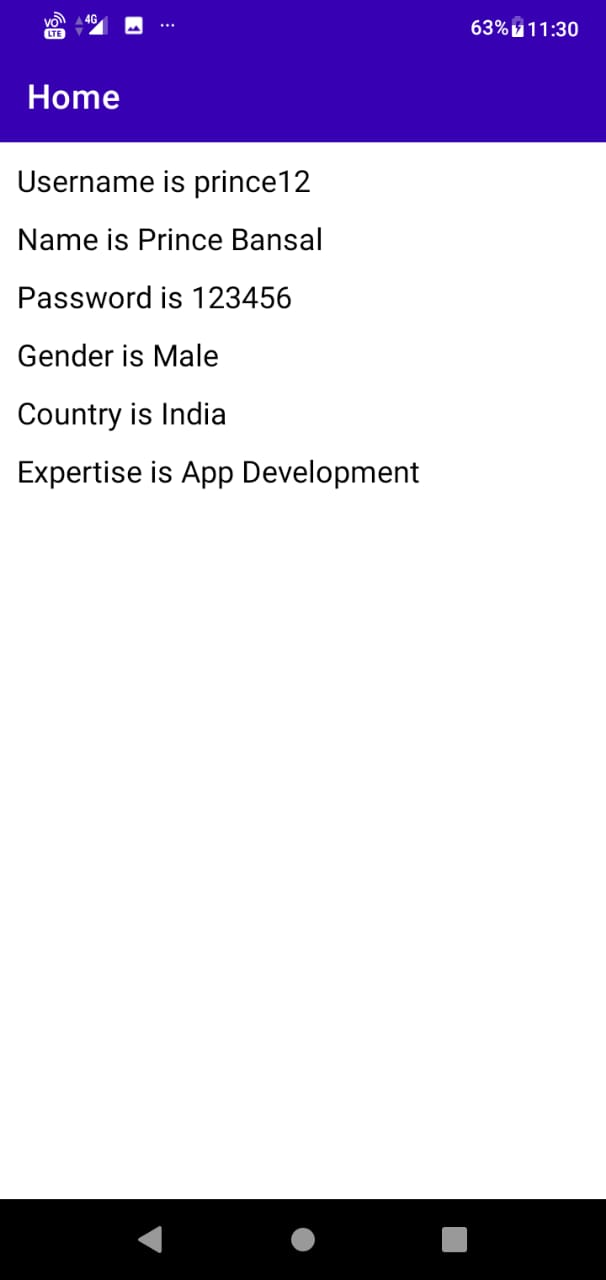
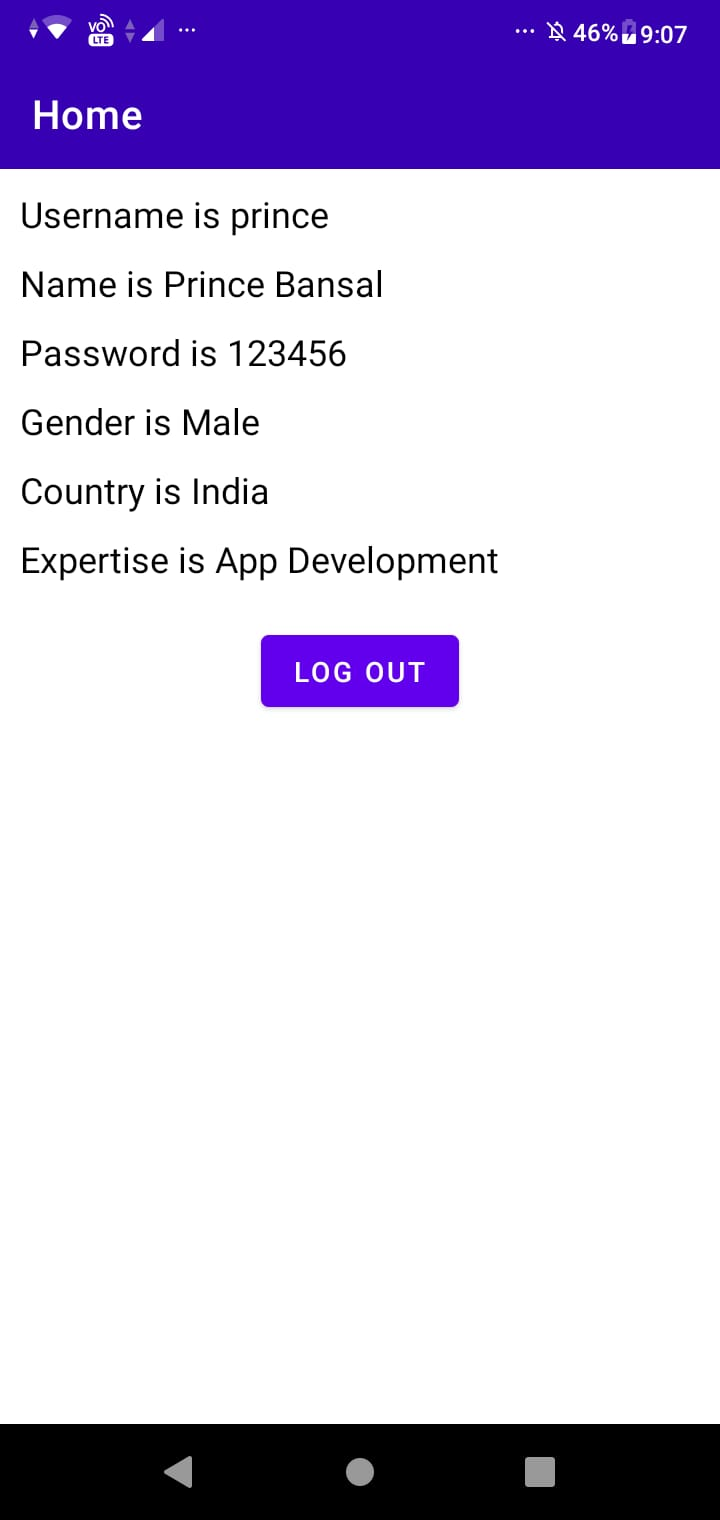
Initital Commit

diff --git a/app/src/main/java/com/example/androiddemo/MainActivity.kt b/app/src/main/java/com/example/androiddemo/MainActivity.kt
@@ -1,27 +1,40 @@
 package com.example.androiddemo
 
 import android.content.Context
+import android.content.Intent
 import androidx.appcompat.app.AppCompatActivity
 import android.os.Bundle
+import android.view.View
+import android.widget.Button
 import android.widget.TextView
 
 class MainActivity : AppCompatActivity() {
     override fun onCreate(savedInstanceState: Bundle?) {
         super.onCreate(savedInstanceState)
         setContentView(R.layout.activity_main)
-        var usernameTv = findViewById<TextView>(R.id.username)
-        var nameTv = findViewById<TextView>(R.id.name)
-        var passwordTv = findViewById<TextView>(R.id.password)
-        var genderTv = findViewById<TextView>(R.id.gender)
-        var countryTv = findViewById<TextView>(R.id.country)
-        var expertiseTv = findViewById<TextView>(R.id.expertise)
+        val usernameTv = findViewById<TextView>(R.id.username)
+        val nameTv = findViewById<TextView>(R.id.name)
+        val passwordTv = findViewById<TextView>(R.id.password)
+        val genderTv = findViewById<TextView>(R.id.gender)
+        val countryTv = findViewById<TextView>(R.id.country)
+        val expertiseTv = findViewById<TextView>(R.id.expertise)
+        val logout = findViewById<Button>(R.id.logout)
         val sharedPreference = getSharedPreferences("USER_DATA", Context.MODE_PRIVATE)
+        val editor = sharedPreference.edit()
         usernameTv.text = "Username is " + sharedPreference.getString("username", "")
         nameTv.text = "Name is " + sharedPreference.getString("name", "")
         passwordTv.text = "Password is " + sharedPreference.getString("password", "")
         genderTv.text = "Gender is " + sharedPreference.getString("gender", "")
         countryTv.text = "Country is " + sharedPreference.getString("country", "")
         expertiseTv.text = "Expertise is " + sharedPreference.getString("expertise", "")
+
+        logout.setOnClickListener(View.OnClickListener {
+            editor.clear()
+            editor.apply()
+            val intent = Intent(this, LoginActivity::class.java)
+            startActivity(intent)
+
+        })
     }
 
 }

diff --git a/app/src/main/java/com/example/androiddemo/SignupActivity.kt b/app/src/main/java/com/example/androiddemo/SignupActivity.kt
@@ -21,12 +21,9 @@ class SignupActivity : AppCompatActivity() {
     override fun onCreate(savedInstanceState: Bundle?) {
         super.onCreate(savedInstanceState)
         setContentView(R.layout.activity_signup)
-        var userNameLay = findViewById<TextInputLayout>(R.id.userNameLayout)
-        var userNameEt = findViewById<TextInputEditText>(R.id.userNameEt)
-        var nameLay = findViewById<TextInputLayout>(R.id.nameLayout)
-        val nameEt = findViewById<TextInputEditText>(R.id.nameEt)
-        var passLay = findViewById<TextInputLayout>(R.id.passwordLayout)
-        val passEt = findViewById<TextInputEditText>(R.id.passwordEt)
+        var userNameEt = findViewById<EditText>(R.id.userNameEt)
+        val nameEt = findViewById<EditText>(R.id.nameEt)
+        val passEt = findViewById<EditText>(R.id.passwordEt)
         val spinner = findViewById<Spinner>(R.id.spinner);
         var radioGroup = findViewById<RadioGroup>(R.id.radioGroup)
         var appCheck = findViewById<CheckBox>(R.id.appCheck)

diff --git a/app/src/main/java/com/example/androiddemo/LoginActivity.kt b/app/src/main/java/com/example/androiddemo/LoginActivity.kt
@@ -7,6 +7,7 @@ import android.os.Bundle
 import android.text.TextUtils.isEmpty
 import android.view.View
 import android.widget.Button
+import android.widget.EditText
 import android.widget.Toast
 import com.google.android.material.textfield.TextInputEditText
 
@@ -17,8 +18,8 @@ class LoginActivity : AppCompatActivity() {
         setContentView(R.layout.activity_login)
         var loginButton = findViewById<Button>(R.id.logInButton)
         var signUpButton = findViewById<Button>(R.id.signUpButton)
-        var usernameEt = findViewById<TextInputEditText>(R.id.userNameEt)
-        var passwordEt = findViewById<TextInputEditText>(R.id.passwordEt)
+        var usernameEt = findViewById<EditText>(R.id.userNameEt)
+        var passwordEt = findViewById<EditText>(R.id.passwordEt)
         val sharedPreference = getSharedPreferences("USER_DATA", Context.MODE_PRIVATE)
         var username = sharedPreference.getString("username", "")
         var password = sharedPreference.getString("password", "")
